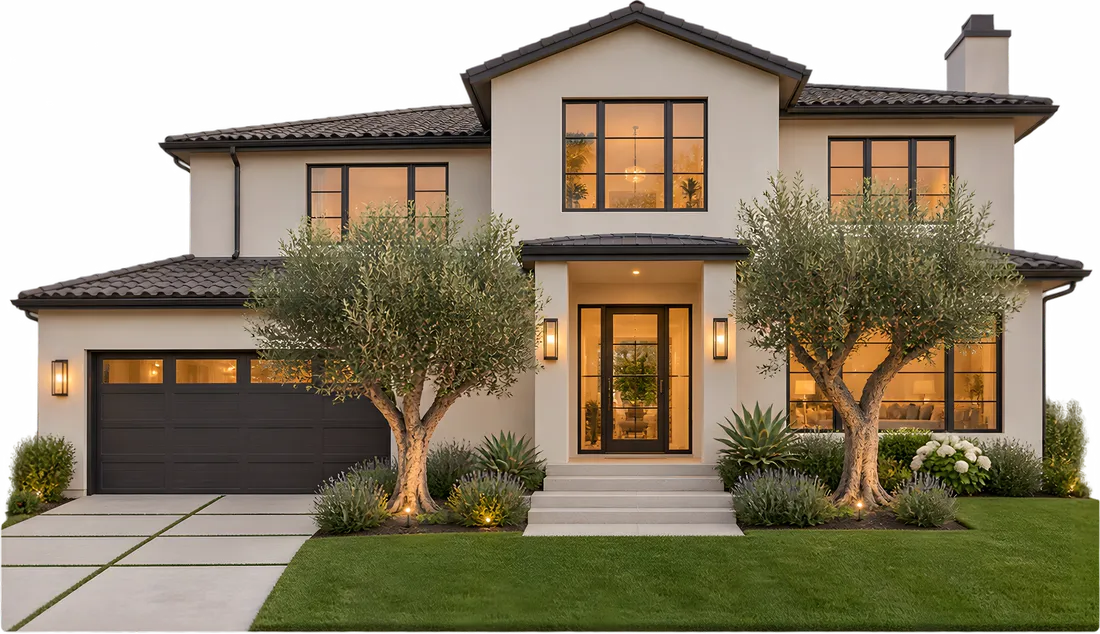
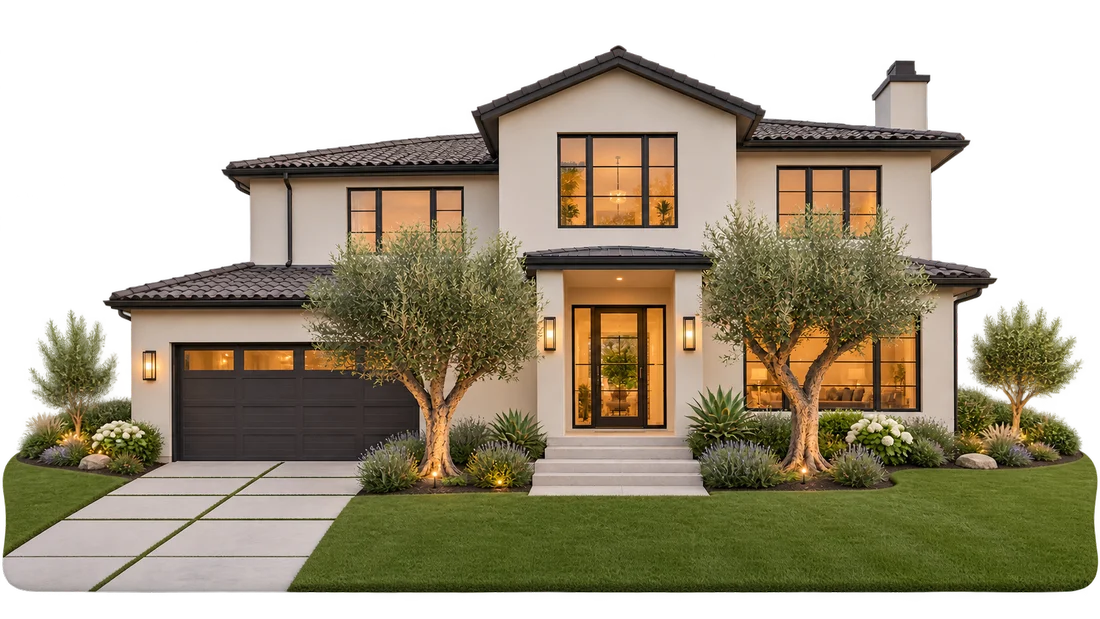
Replacement 2

diff --git a/site/index.html b/site/index.html
@@ -197,7 +197,7 @@
         <img class="econ__house"
              src="assets/images/home-04-house-cutout-2000.webp"
              srcset="assets/images/home-04-house-cutout-1100.webp 1100w, assets/images/home-04-house-cutout-2000.webp 2000w"
-             sizes="(min-width: 769px) 88vw, 100vw" width="2000" height="1154" loading="lazy"
+             sizes="(min-width: 769px) 96vw, 100vw" width="2000" height="1126" loading="lazy"
              alt="A modern two-storey Southern California home with olive trees and warm light in the windows">
 
         <p class="econ__disclosure">Illustrative example only. Home Business results are not guaranteed, are not passive income, and depend on your participation and program terms. Actual payments and results vary.</p>

diff --git a/site/css/home.css b/site/css/home.css
@@ -424,7 +424,7 @@
   left: 50%;
   bottom: 0;
   z-index: 1;
-  width: min(84vw, 102svh);
+  width: min(96vw, 116svh);
   max-width: none;
   transform: translateX(-50%);
 }

diff --git a/PROJECT-STATUS.md b/PROJECT-STATUS.md
@@ -1,6 +1,6 @@
 # Glonari Homes — Project Status
 
-Last updated: 2026-11-05. Update this file after every significant step so a new chat (on either computer) can resume without re-reading the whole conversation history. Keep entries short: decisions, what changed, open questions, next step — not a transcript.
+Last updated: 2026-11-06. Update this file after every significant step so a new chat (on either computer) can resume without re-reading the whole conversation history. Keep entries short: decisions, what changed, open questions, next step — not a transcript.
 
 ## Done
 
@@ -11,6 +11,7 @@ Last updated: 2026-11-05. Update this file after every significant step so a new
 - Two follow-up polish fixes, owner-approved (2026-11-05): reduced the oversized empty gap above the cards in the "What a Glonari Home is" pinned scene (`.has-scenes .formula__stage` now aligns to the top with a compact offset instead of centering in the full 100svh stage); adjusted the "after" photo's `object-position` in the problem wipe so the couple's heads aren't cropped against the top edge on desktop.
 - Problem wipe, second fix (2026-11-05): the fixed header was still covering the man's head. In the pinned scene both photos now start below the header (`inset: var(--header-h) 0 0`), and the "after" photo is anchored to its top edge (`object-position: 50% 0%`). The header is always solid and never hides over this section, so no gap shows.
 - Try Before You Buy (2026-11-05): the three photos were replaced with short looping videos (`home-06-tbyb-1/2/3.mp4`). The videos are compressed with ffmpeg (no audio, CRF 26, faststart; about 80% smaller than the originals) and play with autoplay, muted, loop, playsinline and no controls. The `home-06-tbyb-N-1586.webp` images stay as poster/fallback. CSS: the `.tbyb__frame img` rules now also cover `video` (plus `display: block; height: auto` so the frame keeps its 1586/992 ratio). Checked at 1440px (horizontal scroll and progress bar work) and 375px.
+- The economics (2026-11-06): the house image was replaced with a fuller, symmetric composition (the old one was cropped on the right). New source `home-04-house-cutout-new.png` (1672×941, transparent) → `home-04-house-cutout-1100.webp` / `-2000.webp` (ffmpeg libwebp, q 85, alpha kept); the `<img class="econ__house">` size attributes changed to 2000×1126 (ratio 1.78:1). The previous files are kept as `home-04-house-cutout-1100-old.webp` / `-2000-old.webp` for history. Checked at 1440px (econScene works as before: house rises, numbers come up from behind the roof) and 375px. Follow-up: because the new image includes the whole house plus transparent margins, the house looked smaller, so the pinned width was raised from `min(84vw, 102svh)` to `min(96vw, 116svh)` (`.has-scenes .econ__house` in `home.css`; `sizes` updated to 96vw). Mobile size unchanged.
 
 ## In progress
 
